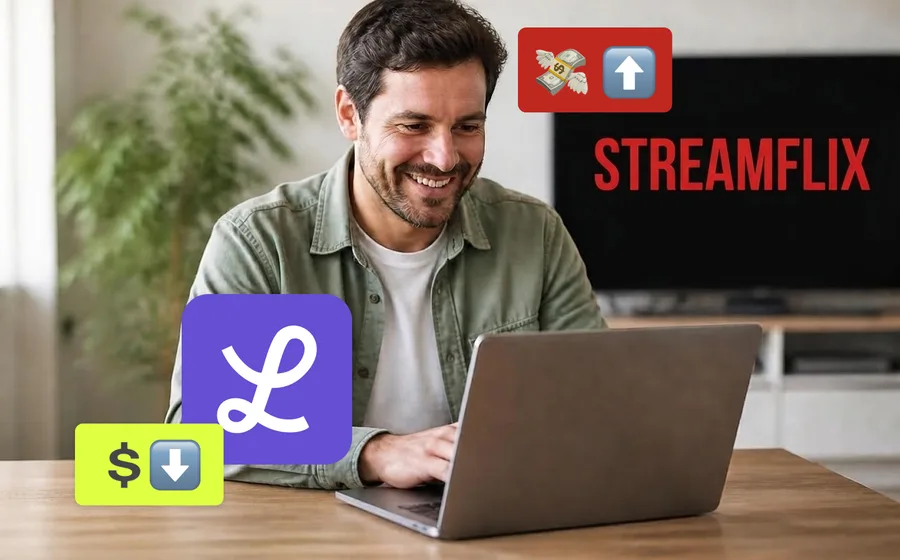
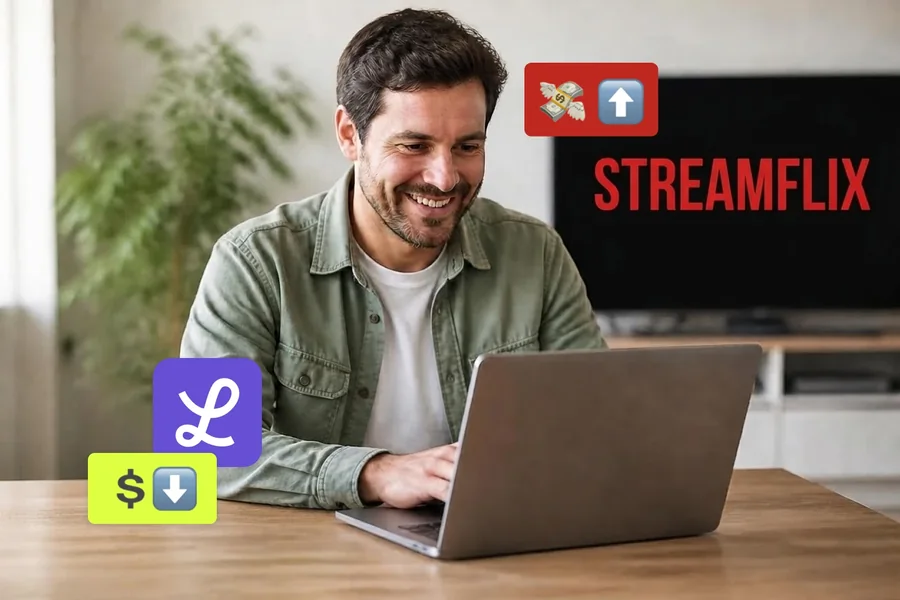
Con Lemora: fotos nuevas de Simplicidad y Costos bajos

diff --git a/src/components/ProblemaSolucion.jsx b/src/components/ProblemaSolucion.jsx
@@ -49,7 +49,7 @@ const pares = [
     imgSin: precios,
     altSin: "Un emprendedor preocupado frente a la computadora, mirando presupuestos",
     img: costos,
-    alt: "Un emprendedor empaqueta pedidos, con una tele de fondo",
+    alt: "Un emprendedor sonríe frente a su computadora, con una tele de fondo",
     problema: {
       title: "Precios que no tienen sentido",
       body: "Presupuestos que cambian según a quién le preguntes, más comisiones y mantenimiento.",
